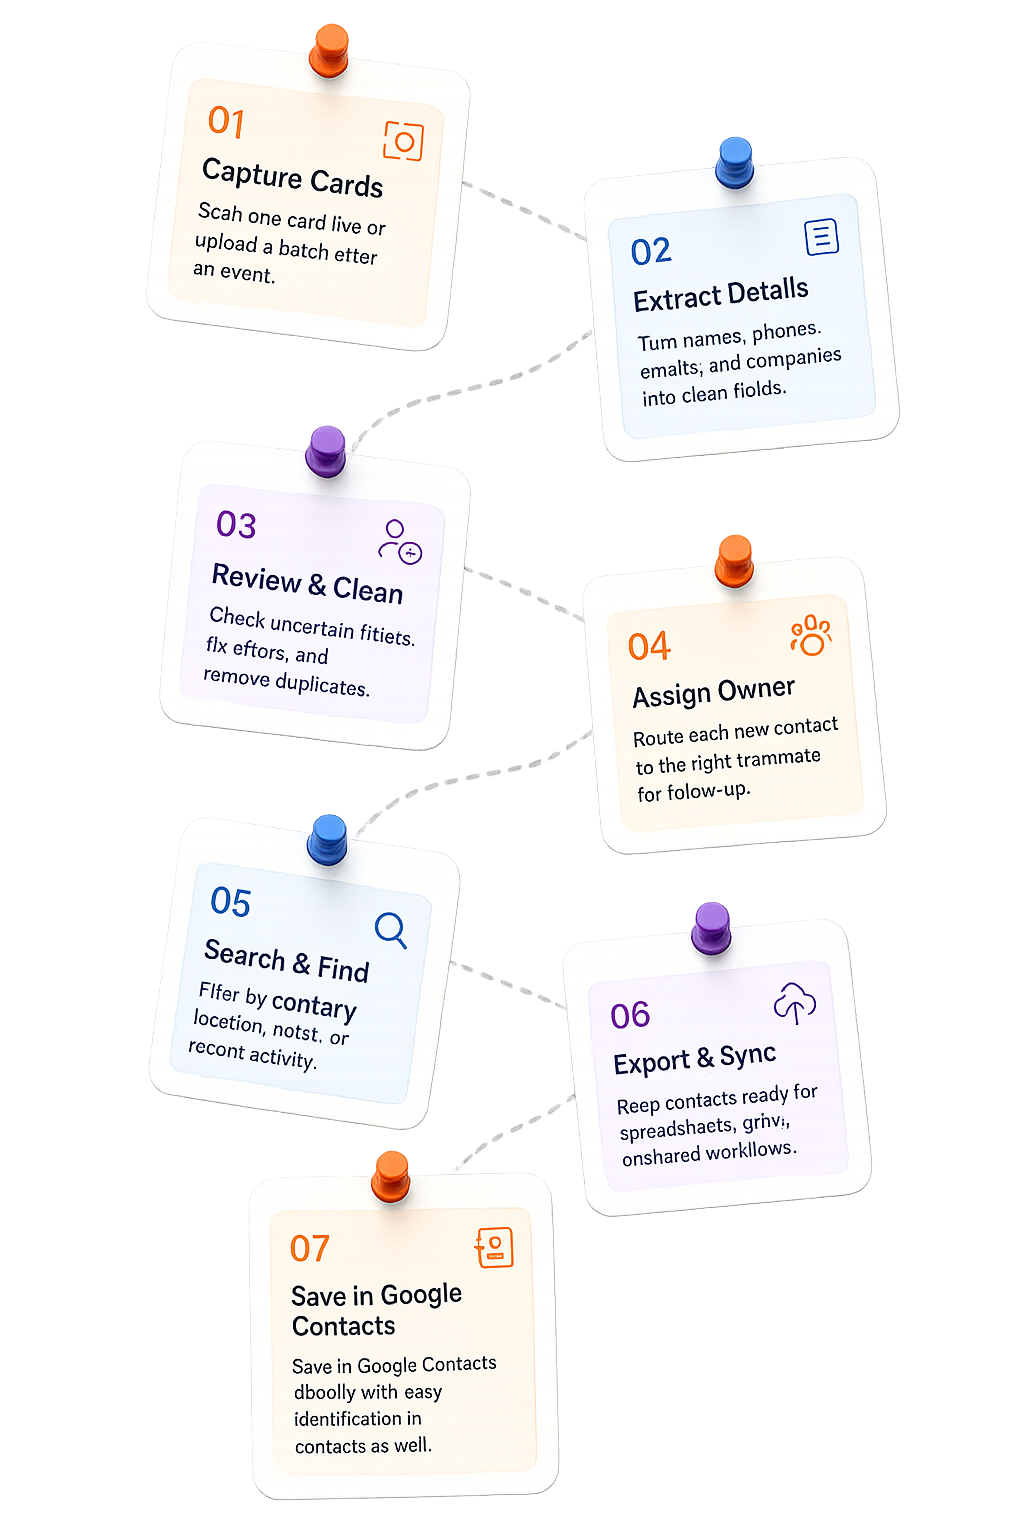
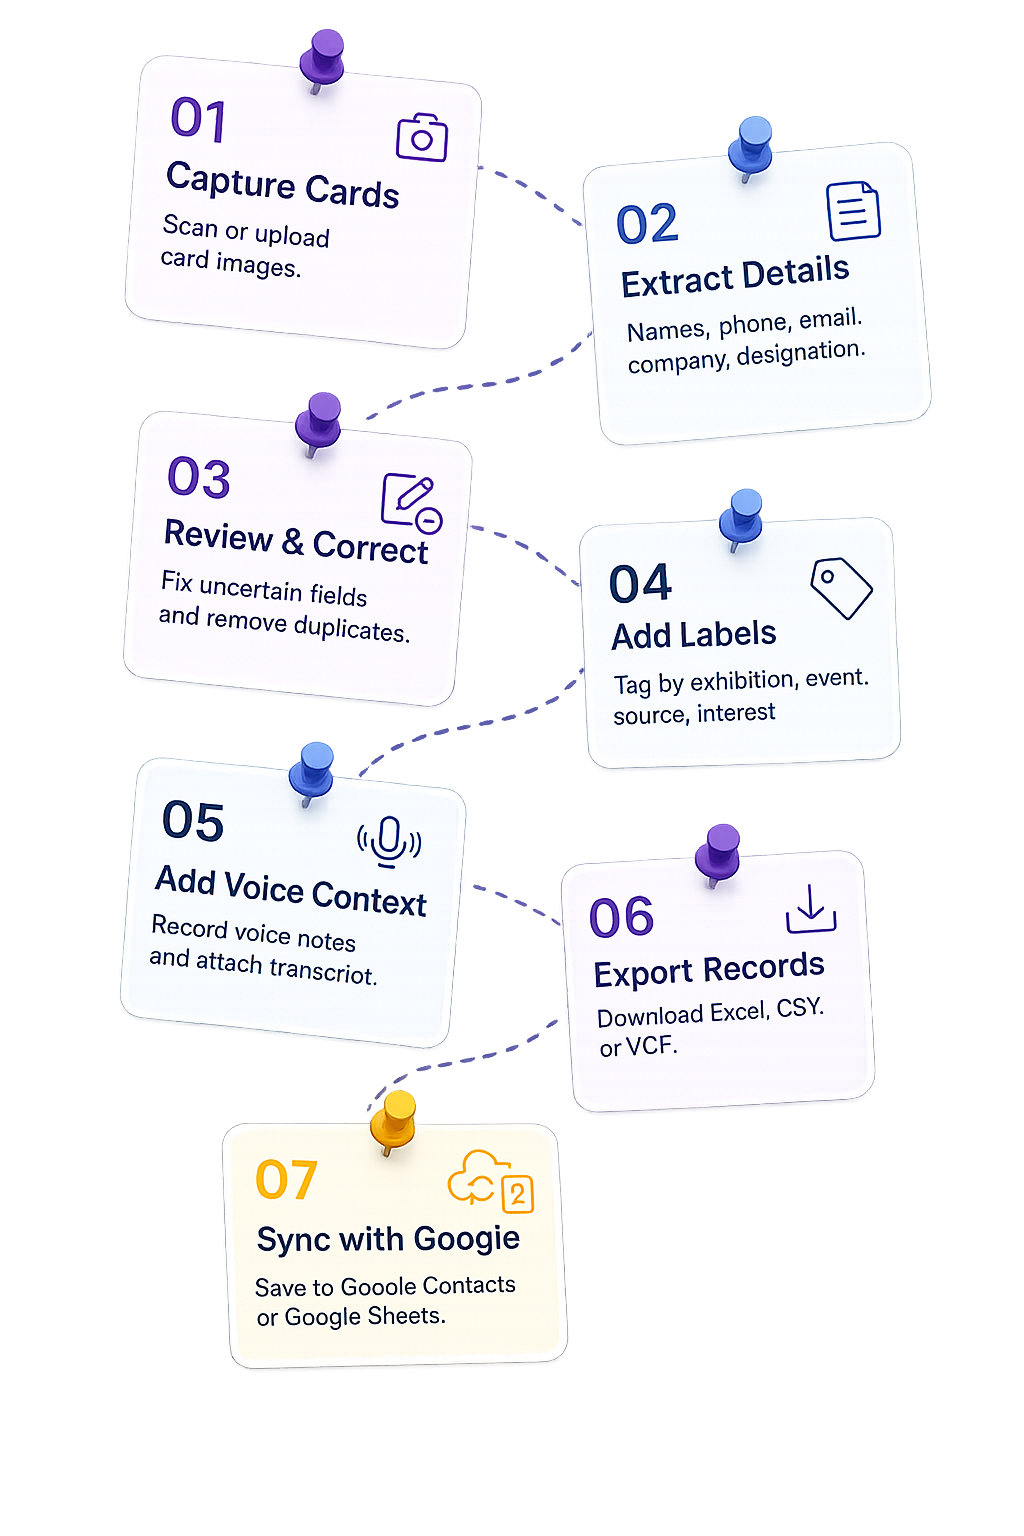
Update features illustration and badges

diff --git a/public/index.html b/public/index.html
@@ -9,10 +9,10 @@
     <meta property="og:title" content="Card2Leads – Turn Business Cards into Organised Contacts" />
     <meta property="og:description" content="Scan business cards, review extracted details, add labels and voice inputs, and export or sync approved contacts." />
     <link rel="manifest" href="/manifest.webmanifest" />
-    <link rel="stylesheet" href="/styles.css?v=20260805-15" />
+    <link rel="stylesheet" href="/styles.css?v=20260805-16" />
   </head>
   <body>
     <div id="app"></div>
-    <script src="/app.js?v=20260805-15"></script>
+    <script src="/app.js?v=20260805-16"></script>
   </body>
 </html>

diff --git a/public/app.js b/public/app.js
@@ -331,7 +331,7 @@ function authView() {
             </article>
           </div>
         </div>
-        <img class="features-illustration" src="/illustrations-final/features%20illustration.png?v=final-20260729" alt="Card2Leads feature overview" />
+        <img class="features-illustration" src="/illustrations-final/features%20illustration.png?v=final-20260805-v2" alt="Card2Leads feature overview" />
       </section>
 
       <section class="public-section public-feature-grid" id="exports">

diff --git a/public/service-worker.js b/public/service-worker.js
@@ -1,5 +1,5 @@
-const CACHE_NAME = "smartscan-shell-v33";
-const SHELL_ASSETS = ["/", "/index.html", "/styles.css?v=20260805-15", "/app.js?v=20260805-15", "/manifest.webmanifest"];
+const CACHE_NAME = "smartscan-shell-v34";
+const SHELL_ASSETS = ["/", "/index.html", "/styles.css?v=20260805-16", "/app.js?v=20260805-16", "/manifest.webmanifest"];
 
 self.addEventListener("install", (event) => {
   event.waitUntil(caches.open(CACHE_NAME).then((cache) => cache.addAll(SHELL_ASSETS)));

diff --git a/public/styles.css b/public/styles.css
@@ -1732,7 +1732,7 @@ label {
   display: grid;
   place-items: center;
   color: #fff;
-  background: #5f8f98;
+  background: var(--purple);
   font-weight: 650;
 }
 
